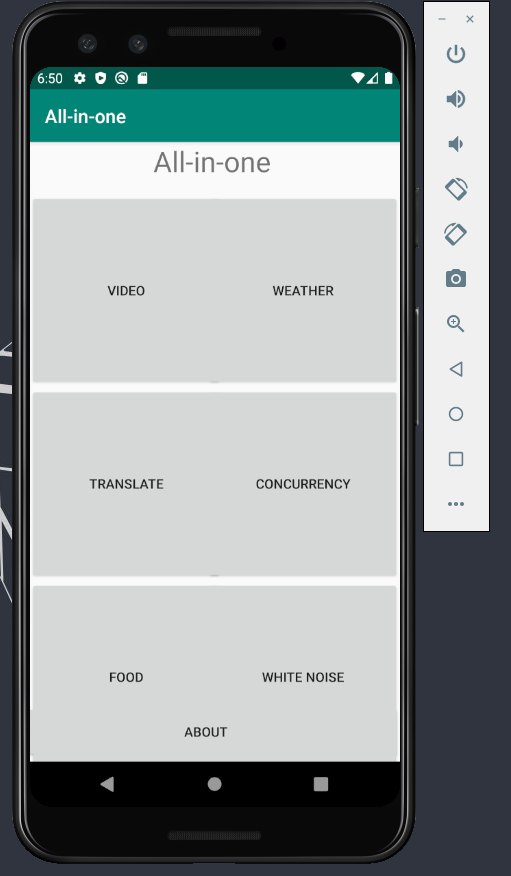
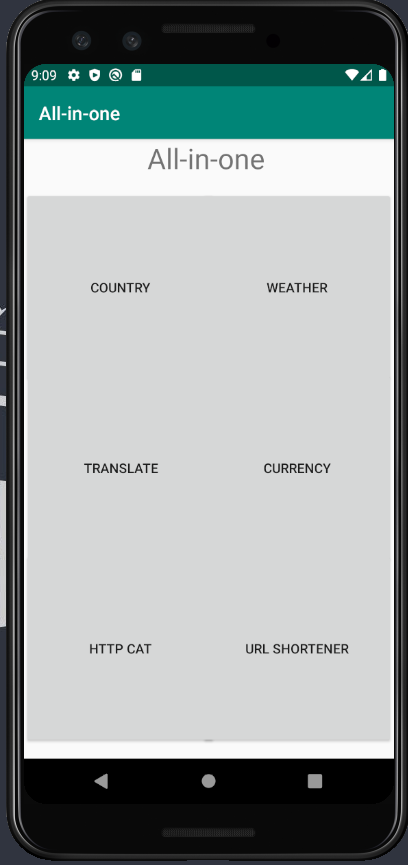
Increment 4

diff --git a/Project/Project/app/src/main/java/edu/umkc/allinone/CountryActivity.java b/Project/Project/app/src/main/java/edu/umkc/allinone/CountryActivity.java
@@ -1,0 +1,77 @@
+package edu.umkc.allinone;
+
+import androidx.appcompat.app.AppCompatActivity;
+
+import android.annotation.SuppressLint;
+import android.content.Intent;
+import android.os.AsyncTask;
+import android.os.Bundle;
+import android.view.View;
+import android.widget.Button;
+import android.widget.EditText;
+
+import org.json.simple.JSONObject;
+
+import java.io.IOException;
+
+public class CountryActivity extends AppCompatActivity {
+    // Define buttons and edit text fields
+    Button countrySearchButton;
+    Button countryHomeButton;
+    EditText countryCodeEditText;
+    EditText countrySummaryEditText;
+
+    @Override
+    protected void onCreate(Bundle savedInstanceState) {
+        super.onCreate(savedInstanceState);
+        setContentView(R.layout.activity_country);
+
+        // Initialized buttons and edit text fields
+        countrySearchButton = (Button) findViewById(R.id.countrySearchButton);
+        countryHomeButton = (Button) findViewById(R.id.countryHomeButton);
+        countryCodeEditText = (EditText) findViewById(R.id.countryCodeEditText);
+        countrySummaryEditText = (EditText) findViewById(R.id.countrySummaryEditText);
+
+        // Create a click action for weather search button
+        countrySearchButton.setOnClickListener(new View.OnClickListener() {
+            public void onClick(View v) {
+                new getCountryInfo().execute();
+            }
+        });
+
+        // Create a click action for weather home
+        countryHomeButton.setOnClickListener(new View.OnClickListener() {
+            public void onClick(View v) {
+                Intent intent = new Intent(CountryActivity.this, MainActivity.class);
+                finish();
+                startActivity(intent);
+            }
+        });
+    }
+    // Asynchronous task for fetching down country info via REST API
+    class getCountryInfo extends AsyncTask<String, String, String> {
+        @Override
+        protected String doInBackground(String... arg0) {
+            @SuppressLint("WrongThread")
+            String countryCode = countryCodeEditText.getText().toString();
+            StringBuilder sb = new StringBuilder();
+            CountryAPI api = new CountryAPI();
+            try {
+                JSONObject jsonObj = api.fetch(countryCode);
+                sb.append("Name: " + api.getCountryName(jsonObj) + "\n");
+                sb.append("Capital: " + api.getCapital(jsonObj) + "\n");
+                sb.append("Region: " + api.getRegion(jsonObj) + "\n");
+                sb.append("Subregion: " + api.getSubregion(jsonObj) + "\n");
+                sb.append("Demonym: " + api.getDemonym(jsonObj) + "\n");
+                sb.append("Area in square kilometre: " + api.getArea(jsonObj) + "\n");
+            } catch (IOException e) {
+                e.printStackTrace();
+            }
+            return sb.toString();
+        }
+        protected void onPostExecute(String msg){
+            super.onPostExecute(msg);
+            countrySummaryEditText.setText(msg);
+        }
+    }
+}

diff --git a/Project/Project/app/src/main/java/edu/umkc/allinone/CountryAPI.java b/Project/Project/app/src/main/java/edu/umkc/allinone/CountryAPI.java
@@ -1,0 +1,98 @@
+package edu.umkc.allinone;
+
+import org.json.simple.JSONObject;
+import org.json.simple.JSONValue;
+import java.io.IOException;
+import okhttp3.OkHttpClient;
+import okhttp3.Request;
+import okhttp3.Response;
+
+/**
+ * Country API class
+ *
+ * @author Jun Yang
+ */
+
+public class CountryAPI {
+    /**
+     * Fetch result from restcountries.eu via REST API
+     *
+     * @param countryCode country code
+     *
+     * @return JSON object for the fetched currency info
+     */
+    public JSONObject fetch(String countryCode) throws IOException {
+        String endpoint = "https://restcountries.eu/rest/v2/alpha/" + countryCode;
+        OkHttpClient client = new OkHttpClient().newBuilder().build();
+        Request request = new Request.Builder().url(endpoint).method("GET", null).build();
+        Response response = client.newCall(request).execute();
+        Object obj = JSONValue.parse(response.body().string());
+        return (JSONObject) obj;
+    }
+
+    /**
+     * Get the country name
+     *
+     * @param jsonObj JSON object for the fetched country info
+     * @return the country name
+     */
+    public String getCountryName(JSONObject jsonObj){
+        Object name = jsonObj.get("name");
+        return name.toString();
+    }
+
+    /**
+     * Get the country capital
+     *
+     * @param jsonObj JSON object for the fetched country info
+     * @return the country capital
+     */
+    public String getCapital(JSONObject jsonObj){
+        Object name = jsonObj.get("capital");
+        return name.toString();
+    }
+
+    /**
+     * Get the country region
+     *
+     * @param jsonObj JSON object for the fetched country info
+     * @return the country region
+     */
+    public String getRegion(JSONObject jsonObj){
+        Object region = jsonObj.get("region");
+        return region.toString();
+    }
+
+    /**
+     * Get the country subregion
+     *
+     * @param jsonObj JSON object for the fetched country info
+     * @return the country subregion
+     */
+    public String getSubregion(JSONObject jsonObj){
+        Object subregion = jsonObj.get("subregion");
+        return subregion.toString();
+    }
+
+    /**
+     * Get the country demonym
+     *
+     * @param jsonObj JSON object for the fetched country info
+     * @return the country demonym
+     */
+    public String getDemonym(JSONObject jsonObj){
+        Object demonym = jsonObj.get("demonym");
+        return demonym.toString();
+    }
+
+    /**
+     * Get the country area in square kilometre
+     *
+     * @param jsonObj JSON object for the fetched country info
+     * @return the country area in square kilometre
+     */
+    public Double getArea(JSONObject jsonObj){
+        Object area = jsonObj.get("area");
+        return (Double) area;
+    }
+}

diff --git a/Project/Project/app/src/main/java/edu/umkc/allinone/MainActivity.java b/Project/Project/app/src/main/java/edu/umkc/allinone/MainActivity.java
@@ -14,14 +14,28 @@ import android.widget.Button;
 
 public class MainActivity extends AppCompatActivity {
     // Define buttons
+    Button countryButton;
     Button weatherButton;
     Button translateButton;
     Button currencyButton;
+    Button httpCatButton;
+    Button urlShortenerButton;
 
     @Override
     protected void onCreate(Bundle savedInstanceState) {
         super.onCreate(savedInstanceState);
         setContentView(R.layout.activity_main);
+
+        // Initialized country button
+        countryButton = (Button) findViewById(R.id.countryButton);
+        // Create a click action for country button
+        countryButton.setOnClickListener(new View.OnClickListener() {
+            public void onClick(View v) {
+                Intent intent = new Intent(MainActivity.this, CountryActivity.class);
+                finish();
+                startActivity(intent);
+            }
+        });
 
         // Initialized weather button
         weatherButton = (Button) findViewById(R.id.weatherButton);
@@ -45,12 +59,34 @@ public class MainActivity extends AppCompatActivity {
             }
         });
 
-        // Initialized currency button
+        // Initialized translate button
         translateButton = (Button) findViewById(R.id.currencyButton);
-        // Create a click action for currency button
+        // Create a click action for translate button
         translateButton.setOnClickListener(new View.OnClickListener() {
             public void onClick(View v) {
                 Intent intent = new Intent(MainActivity.this, CurrencyActivity.class);
+                finish();
+                startActivity(intent);
+            }
+        });
+
+        // Initialized HTTP cat button
+        httpCatButton = (Button) findViewById(R.id.httpCatButton);
+        // Create a click action for HTTP cat button
+        httpCatButton.setOnClickListener(new View.OnClickListener() {
+            public void onClick(View v) {
+                Intent intent = new Intent(MainActivity.this, HttpCatActivity.class);
+                finish();
+                startActivity(intent);
+            }
+        });
+
+        // Initialized URL shortener button
+        urlShortenerButton = (Button) findViewById(R.id.urlShortenerButton);
+        // Create a click action for URL shortener button
+        urlShortenerButton.setOnClickListener(new View.OnClickListener() {
+            public void onClick(View v) {
+                Intent intent = new Intent(MainActivity.this, UrlShortenerActivity.class);
                 finish();
                 startActivity(intent);
             }
